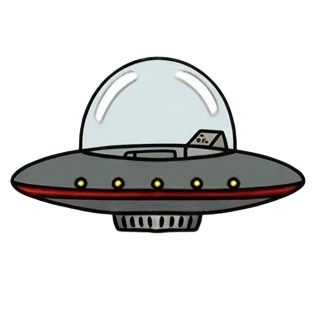
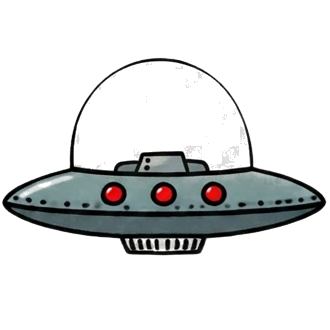
Updated UFO art: clear the white glass dome to transparent on both the new flight sheet (1344x1008 -> dome cleared, 9 frames realigned to a common body position, shrunk to 480x360/160x120 for iOS decode) and the new pickup (ufo-power 330). Re-match sizes: new pickup disc is 325px so pickup/fallback/

diff --git a/classic-offline.html b/classic-offline.html
@@ -24,8 +24,8 @@
     <script src="js/perf.js"></script>
     <script src="js/lib/phaser.min.js"></script>
     <!-- OFFLINE build: assets inlined as data-URIs so it runs straight from file:// (no server) -->
-    <script src="js/offline-assets.js?v=189"></script>
-    <script src="js/offline-shim.js?v=189"></script>
+    <script src="js/offline-assets.js?v=190"></script>
+    <script src="js/offline-shim.js?v=190"></script>
   </head>
   <body>
     <div id="gameParent"></div>
@@ -52,8 +52,8 @@
     </script>
     <input id="highscore" type="text" />
     <script src="js/fulltilt.min.js"></script>
-    <script src="js/classic-theme.js?v=189"></script>
-    <script src="js/classic.themed.js?v=189"></script>
-    <script src="js/doodle.js?v=189"></script>
+    <script src="js/classic-theme.js?v=190"></script>
+    <script src="js/classic.themed.js?v=190"></script>
+    <script src="js/doodle.js?v=190"></script>
   </body>
 </html>

diff --git a/js/classic-theme.js b/js/classic-theme.js
@@ -157,8 +157,8 @@ Doodle.loadThemeAssets = function (game) {
     game.load.image("nose_default", "static/images/PlayerSheets/nose_default.png");
     game.load.image("menuOverlay", "static/images/menu_overlay.png");
     game.load.image("menuTitle", "static/images/menu_title.png");
-    game.load.spritesheet("ufofly_space", "static/images/Playerfull/space/ufo-doodler.png?v=188", 160, 120, 9); // doodler-in-UFO ride (space, 480x360 -> 160x120 x9). ?v busts stale image cache
-    game.load.image("ufopick_space", "static/images/Playerfull/space/ufo-power.png?v=188"); // empty saucer pickup (space). ?v busts stale image cache
+    game.load.spritesheet("ufofly_space", "static/images/Playerfull/space/ufo-doodler.png?v=190", 160, 120, 9); // doodler-in-UFO ride (space, 480x360 -> 160x120 x9). ?v busts stale image cache
+    game.load.image("ufopick_space", "static/images/Playerfull/space/ufo-power.png?v=190"); // empty saucer pickup (space). ?v busts stale image cache
     Doodle.THEMES.forEach(function (th) {
       if (th === "default") return;
       var d = Doodle.THEME_DATA[th];
@@ -456,7 +456,7 @@ Doodle.maybeUfo = function (gs, platform) {
     else { b = new Doodle.Bonus(gs.game, platform.x, platform.top + 5, "bonus2", platform, gs.score, gs.sounds, gs.stats); gs.bonusPool.add(b); }
     b.isUfo = true; b._ufoFly = flyKey; b._ufoPick = pickKey; // flight sheet (may be null) + pickup, for the ride/fallback
     b.loadTexture(pickKey);                                  // empty saucer sitting on the platform
-    b.anchor.setTo(0.5, 0.82); b.scale.setTo(0.535, 0.535);  // ~158px saucer (matches the flying UFO size), disc bottom on the platform
+    b.anchor.setTo(0.5, 0.82); b.scale.setTo(0.483, 0.483);  // ~158px saucer (matches the flying UFO size), disc bottom on the platform
     if (b.body) { b.body.setSize(280, 210, 20, 40); b.body.allowGravity = false; } // grab box over the saucer (texture space; scales with the sprite)
     platform.hasBonusObject = 9;
     gs._ufoCount = (gs._ufoCount || 0) + 1;
@@ -482,7 +482,7 @@ Doodle.activateUfo = function (a, b, gs) {
       a.animations.add("uf", [0, 1, 2, 3, 4, 5, 6, 7, 8], 16, true); a.play("uf");
     } else if (Doodle._imgOK(g, pickKey)) {                  // flight sheet unavailable -> ride the empty saucer
       a.loadTexture(pickKey); a.frame = 0;
-      a.anchor.setTo(0.5, 0.5); a.scale.setTo(0.535 * face, 0.535);
+      a.anchor.setTo(0.5, 0.5); a.scale.setTo(0.483 * face, 0.483);
     }
     if (a.body) { a.body.velocity.x = 0; a.body.velocity.y = -1400; a.body.gravity.y = -2400; } // strong boost off the pad
     Doodle._ufoFlight(a, gs);
@@ -513,7 +513,7 @@ Doodle._ufoFlight = function (a, gs) {
         var pk = a._ufoPick || ("ufopick_" + Doodle.getTheme());
         if (Doodle._imgOK(g, pk)) {
           var eu = g.add.sprite(_ux, _uy, pk);
-          eu.anchor.setTo(0.5, 0.5); eu.scale.setTo(0.535, 0.535);
+          eu.anchor.setTo(0.5, 0.5); eu.scale.setTo(0.483, 0.483);
           try { a.parent.addChildAt(eu, a.parent.getChildIndex(a)); } catch (ez) {} // render behind the doodler
           g.physics.arcade.enable(eu); eu.body.allowGravity = true;
           eu.body.velocity.y = _vy; eu.body.velocity.x = 6;

diff --git a/index.html b/index.html
@@ -134,9 +134,9 @@
     <!-- Leaderboard API base, same-origin under /djapi (the server app is routed to djweb.../djapi). "" = local-only. -->
     <script>window.DJ_API_URL = "https://djapi.jeremiah.sg";</script>
     <script src="js/fulltilt.min.js"></script>
-    <script src="js/classic-theme.js?v=189"></script>
-    <script src="js/classic.themed.js?v=189"></script>
-    <script src="js/mp.js?v=189"></script>
-    <script src="js/doodle.js?v=189"></script>
+    <script src="js/classic-theme.js?v=190"></script>
+    <script src="js/classic.themed.js?v=190"></script>
+    <script src="js/mp.js?v=190"></script>
+    <script src="js/doodle.js?v=190"></script>
   </body>
 </html>

diff --git a/sw.js b/sw.js
@@ -1,7 +1,7 @@
 // Service worker: makes the online build an installable, offline-capable PWA.
 // NETWORK-FIRST for GET requests: when online you always get the latest (no stale-asset
 // problems after a deploy); falls back to cache only when offline. Bump CACHE on each release.
-var CACHE = "dj-v189";
+var CACHE = "dj-v190";
 
 self.addEventListener("install", function (e) { self.skipWaiting(); });
 